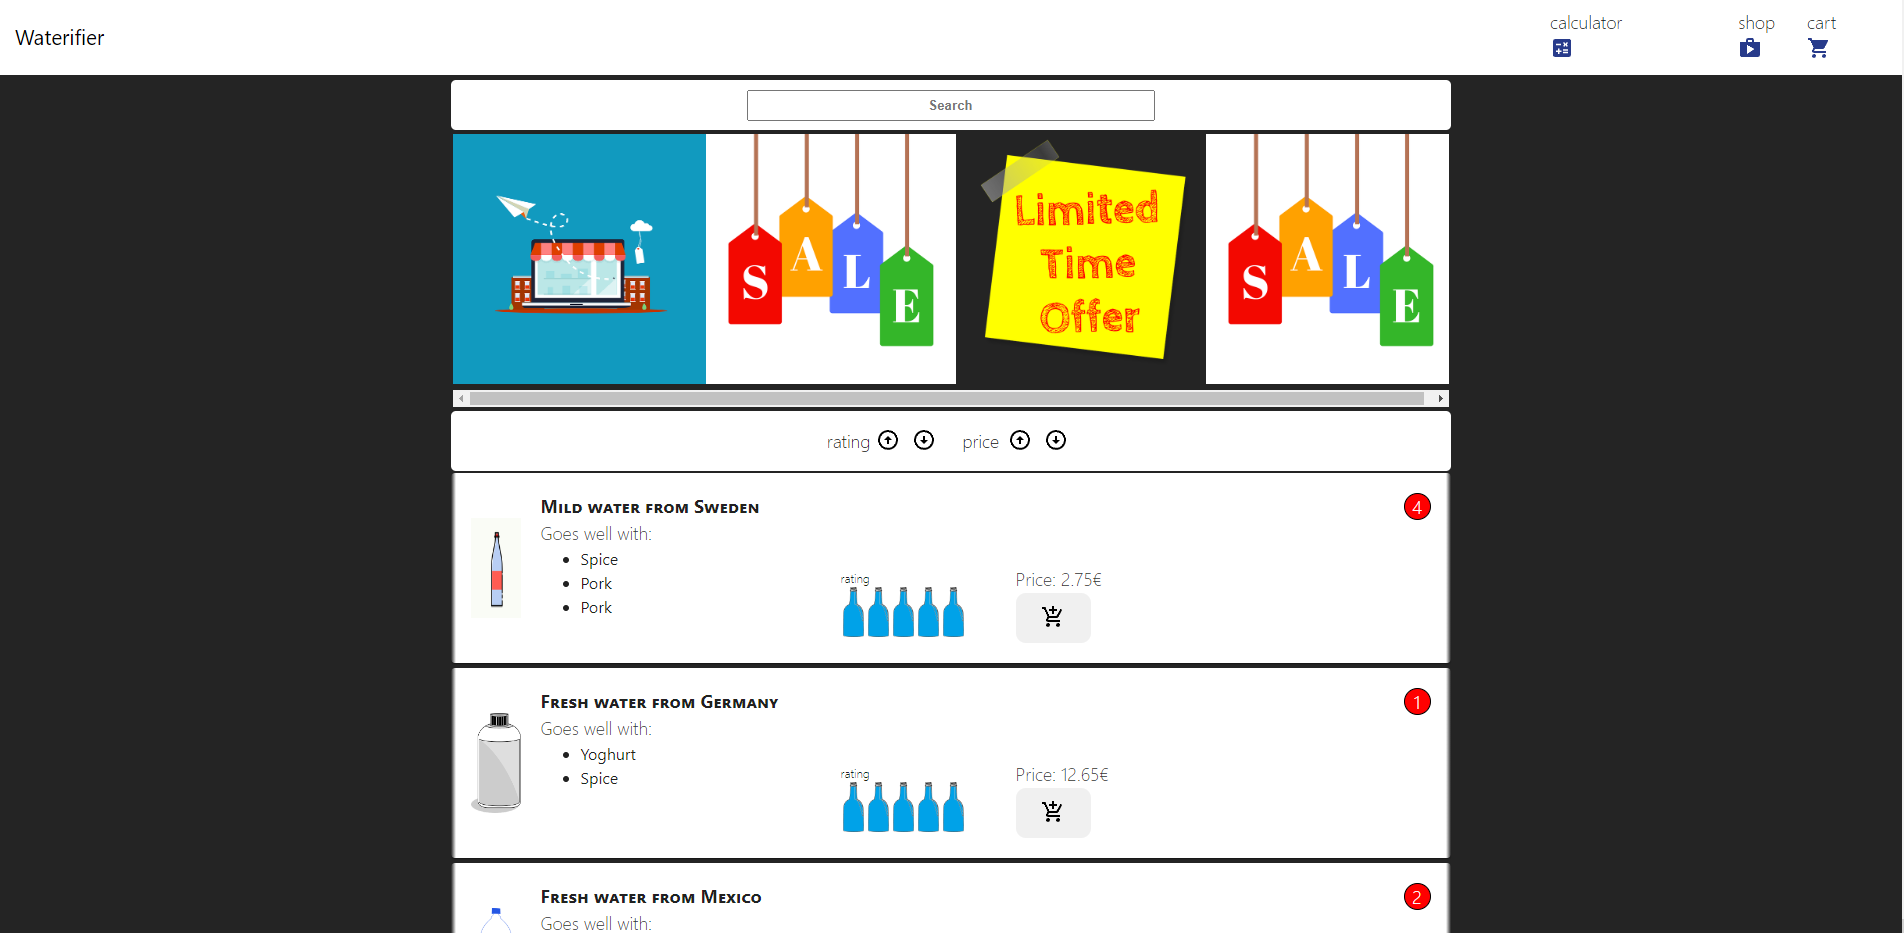
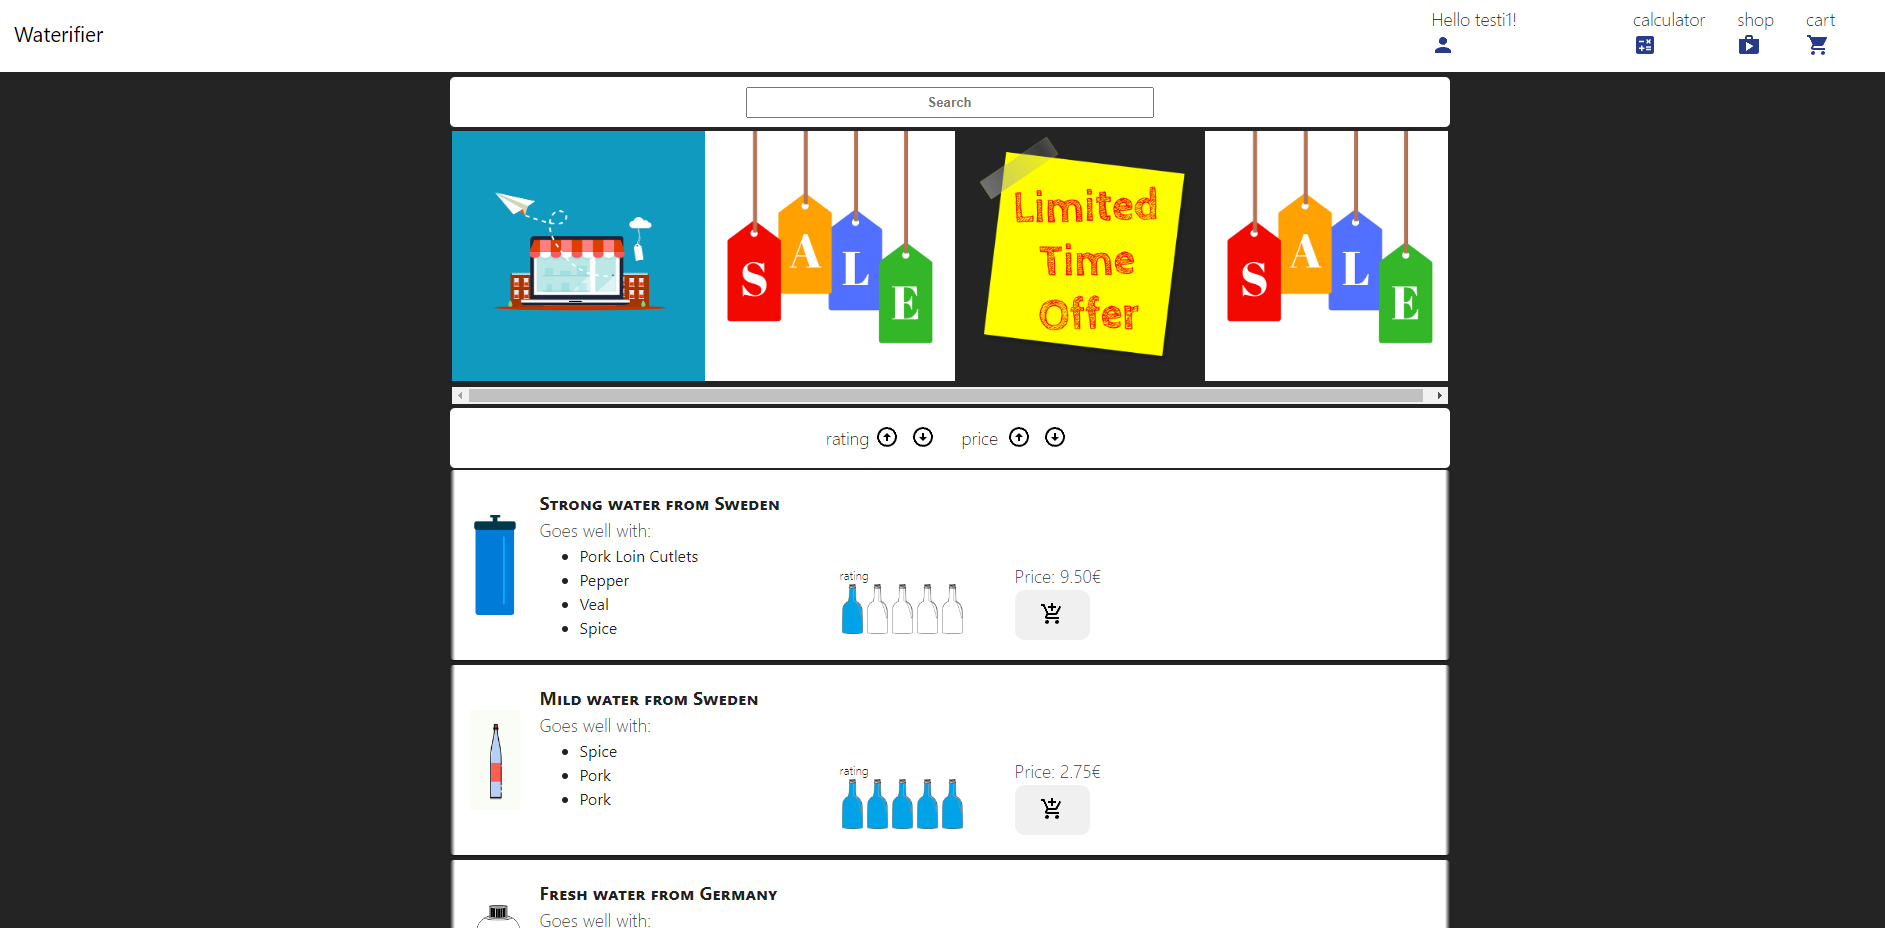
Readme

diff --git a/src/Views/WaterCalculator/components/WaterTracker/WaterTracker.css b/src/Views/WaterCalculator/components/WaterTracker/WaterTracker.css
@@ -12,7 +12,6 @@
   display: flex;
   flex-direction: column;
   padding: 20px 30px 20px 30px;
-
   gap: 20px;
 }
 

diff --git a/Readme.md b/Readme.md
@@ -1,25 +1,9 @@
 # Waterifier
 
-Waterifier is simple JS-React webpage. Project to learn and be more consistent with js, html, & css.
+Waterifier is Javascript-React webpage. Project to learn and be more consistent with js, html, & css.
 
-Got backend with jwt cookie authentication, but is not currently connected.
+Simple [Backend](https://github.com/wepukka/WaterifierBackend) with jwt cookie authentication.
 
-## Pages
+## Future
 
-    CALCULATOR
-
-    Waterifier calculator lets you calculate your recommended daily water intake, based on your body weight and daily exercise amount.
-
-<img src="public/readme3.png" alt="shop" width="500"/>
-
-    SHOP
-
-    Choose to sort & buy different random generated waters.
-
-<img src="public/readme1.png" alt="shop" width="500"/>
-
-    CART
-
-    Items in cart, shows full cart price and allow to change quantity per item & completely clear cart
-
-<img src="public/readme2.png" alt="shop" width="500"/>
+Not really planning to continue on this project, if got some spare time maybe next step is to set up user orders and ability to add new products.
